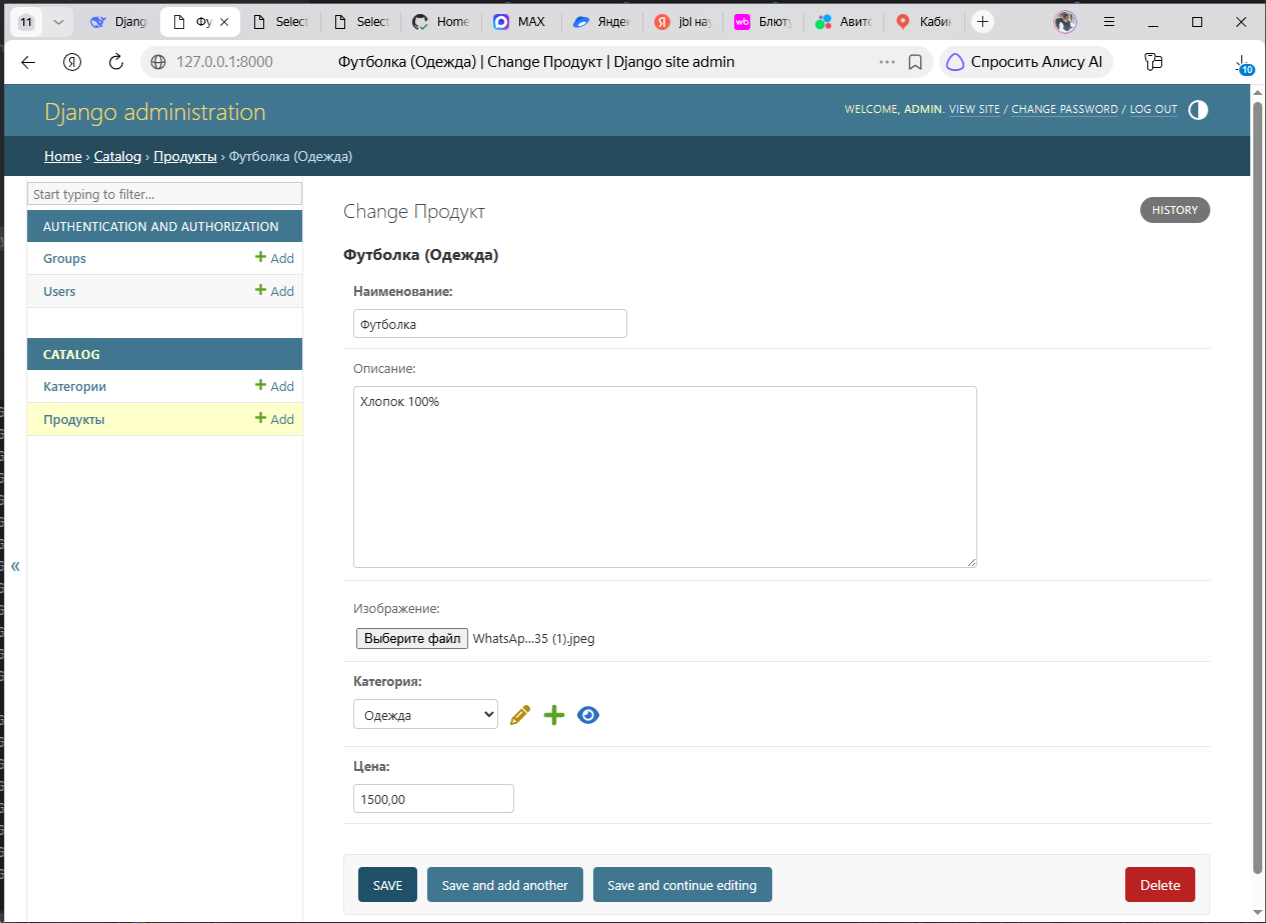
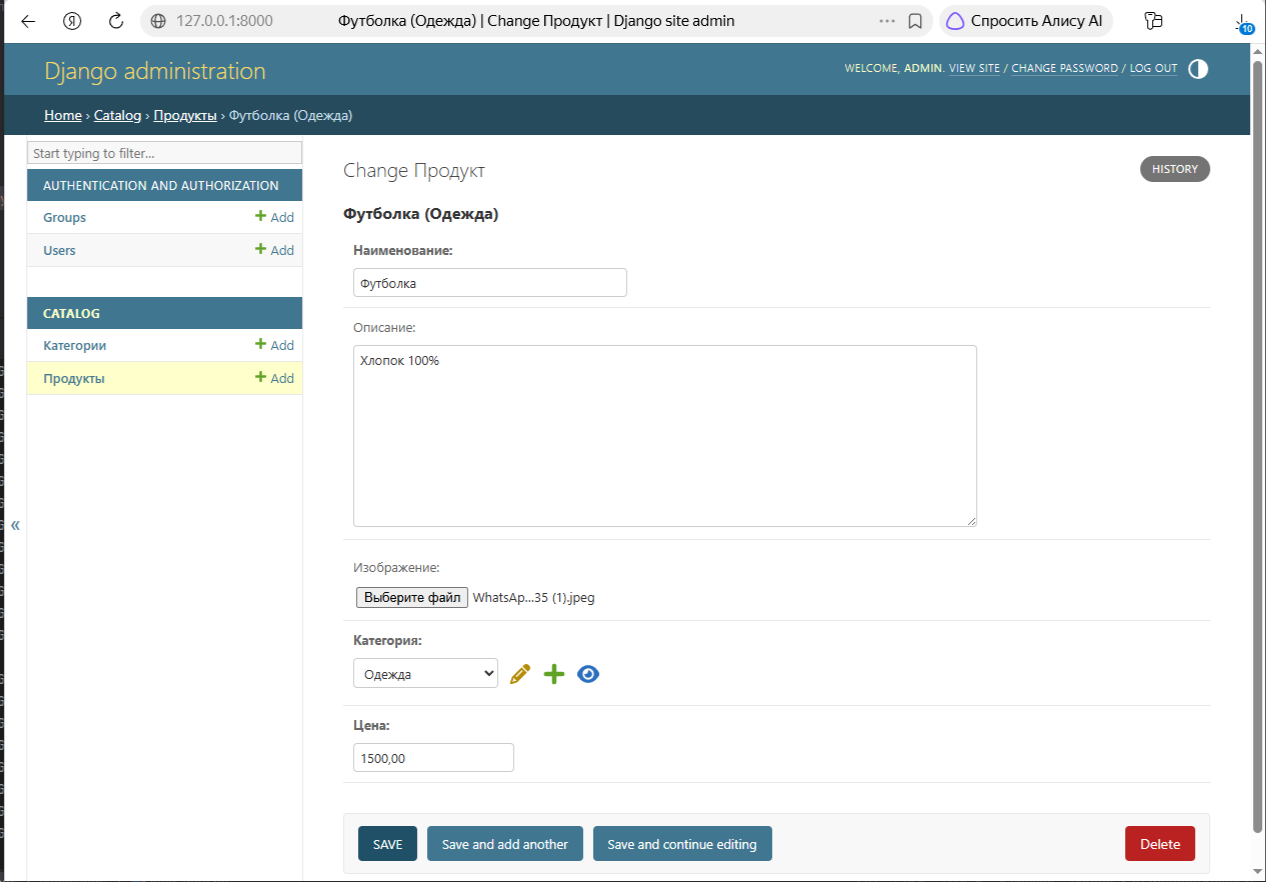
Add extra task: last 5 products on home, Contact model and contact page

diff --git a/templates/catalog/home.html b/templates/catalog/home.html
@@ -23,24 +23,29 @@
 </div>
 
 <div class="container">
+    <h3 class="text-center mb-4">Последние продукты</h3>
     <div class="row text-center">
+        {% for product in products %}
         <div class="col-3">
             <div class="card mb-4 box-shadow">
                 <div class="card-header">
-                    <h4 class="my-0 font-weight-normal">Удобный сервис рассылок</h4>
+                    <h4 class="my-0 font-weight-normal">{{ product.name }}</h4>
                 </div>
                 <div class="card-body">
-                    <h1 class="card-title pricing-card-title">$ 140</h1>
+                    <h1 class="card-title pricing-card-title">$ {{ product.price }}</h1>
                     <ul class="list-unstyled mt-3 mb-4 text-start m-3">
-                        <li>- Неограниченная лицензия</li>
-                        <li>- Поддержка</li>
-                        <li>- Установка на сервер</li>
-                        <li>- Получение обновлений</li>
+                        <li>Категория: {{ product.category.name }}</li>
+                        <li>{{ product.description|truncatechars:60 }}</li>
                     </ul>
                     <button type="button" class="btn btn-lg btn-block btn-outline-primary">Купить</button>
                 </div>
             </div>
         </div>
+        {% empty %}
+        <div class="col-12">
+            <p class="text-muted">Продуктов пока нет.</p>
+        </div>
+        {% endfor %}
     </div>
 
     <footer class="pt-4 my-md-5 pt-md-5 border-top">

diff --git a/templates/catalog/contacts.html b/templates/catalog/contacts.html
@@ -25,20 +25,24 @@
         <div class="col-lg-9 col-md-6 col-sm-12">
             <div class="card mb-4 box-shadow">
                 <div class="card-body">
+                    {% if contact %}
                     <table class="table table-striped">
                         <tr>
                             <td class="w-25">Страна</td>
-                            <td>USA</td>
+                            <td>{{ contact.country }}</td>
                         </tr>
                         <tr>
                             <td class="w-25">ИНН</td>
-                            <td>91-1144442</td>
+                            <td>{{ contact.inn }}</td>
                         </tr>
                         <tr>
                             <td class="w-25">Адрес</td>
-                            <td>Redmond,WA,98052-6399</td>
+                            <td>{{ contact.address }}</td>
                         </tr>
                     </table>
+                    {% else %}
+                    <p class="text-muted">Контактные данные ещё не заполнены.</p>
+                    {% endif %}
                 </div>
             </div>
         </div>

diff --git a/catalog/migrations/0002_contact.py b/catalog/migrations/0002_contact.py
@@ -1,0 +1,26 @@
+# Generated by Django 6.1.1 on 2026-09-24 13:32
+
+from django.db import migrations, models
+
+
+class Migration(migrations.Migration):
+
+    dependencies = [
+        ('catalog', '0001_initial'),
+    ]
+
+    operations = [
+        migrations.CreateModel(
+            name='Contact',
+            fields=[
+                ('id', models.BigAutoField(auto_created=True, primary_key=True, serialize=False, verbose_name='ID')),
+                ('country', models.CharField(max_length=100, verbose_name='Страна')),
+                ('inn', models.CharField(max_length=20, verbose_name='ИНН')),
+                ('address', models.CharField(max_length=255, verbose_name='Адрес')),
+            ],
+            options={
+                'verbose_name': 'Контакт',
+                'verbose_name_plural': 'Контакты',
+            },
+        ),
+    ]

diff --git a/catalog/views.py b/catalog/views.py
@@ -1,8 +1,13 @@
 from django.shortcuts import render
 
+from .models import Contact, Product
+
 
 def home(request):
-    return render(request, 'catalog/home.html')
+    products = Product.objects.order_by('-created_at')[:5]
+    for product in products:
+        print(f'{product.id} | {product.name} | {product.category.name} | {product.price}')
+    return render(request, 'catalog/home.html', {'products': products})
 
 
 def contacts(request):
@@ -13,4 +18,8 @@ def contacts(request):
         message = request.POST.get('message')
         print(f'Обратная связь: {name} | {phone} | {message}')
         success = True
-    return render(request, 'catalog/contacts.html', {'success': success})
+    contact = Contact.objects.first()
+    return render(request, 'catalog/contacts.html', {
+        'success': success,
+        'contact': contact,
+    })

diff --git a/catalog/models.py b/catalog/models.py
@@ -33,3 +33,16 @@ class Product(models.Model):
 
     def __str__(self):
         return f'{self.name} ({self.category.name})'
+
+
+class Contact(models.Model):
+    country = models.CharField(max_length=100, verbose_name='Страна')
+    inn = models.CharField(max_length=20, verbose_name='ИНН')
+    address = models.CharField(max_length=255, verbose_name='Адрес')
+
+    class Meta:
+        verbose_name = 'Контакт'
+        verbose_name_plural = 'Контакты'
+
+    def __str__(self):
+        return f'{self.country}, {self.address}'

diff --git a/catalog/admin.py b/catalog/admin.py
@@ -1,6 +1,6 @@
 from django.contrib import admin
 
-from .models import Category, Product
+from .models import Category, Contact, Product
 
 
 @admin.register(Category)
@@ -14,3 +14,8 @@ class ProductAdmin(admin.ModelAdmin):
     list_display = ('id', 'name', 'category', 'price')
     list_filter = ('category',)
     search_fields = ('name', 'description')
+
+
+@admin.register(Contact)
+class ContactAdmin(admin.ModelAdmin):
+    list_display = ('id', 'country', 'inn', 'address')
